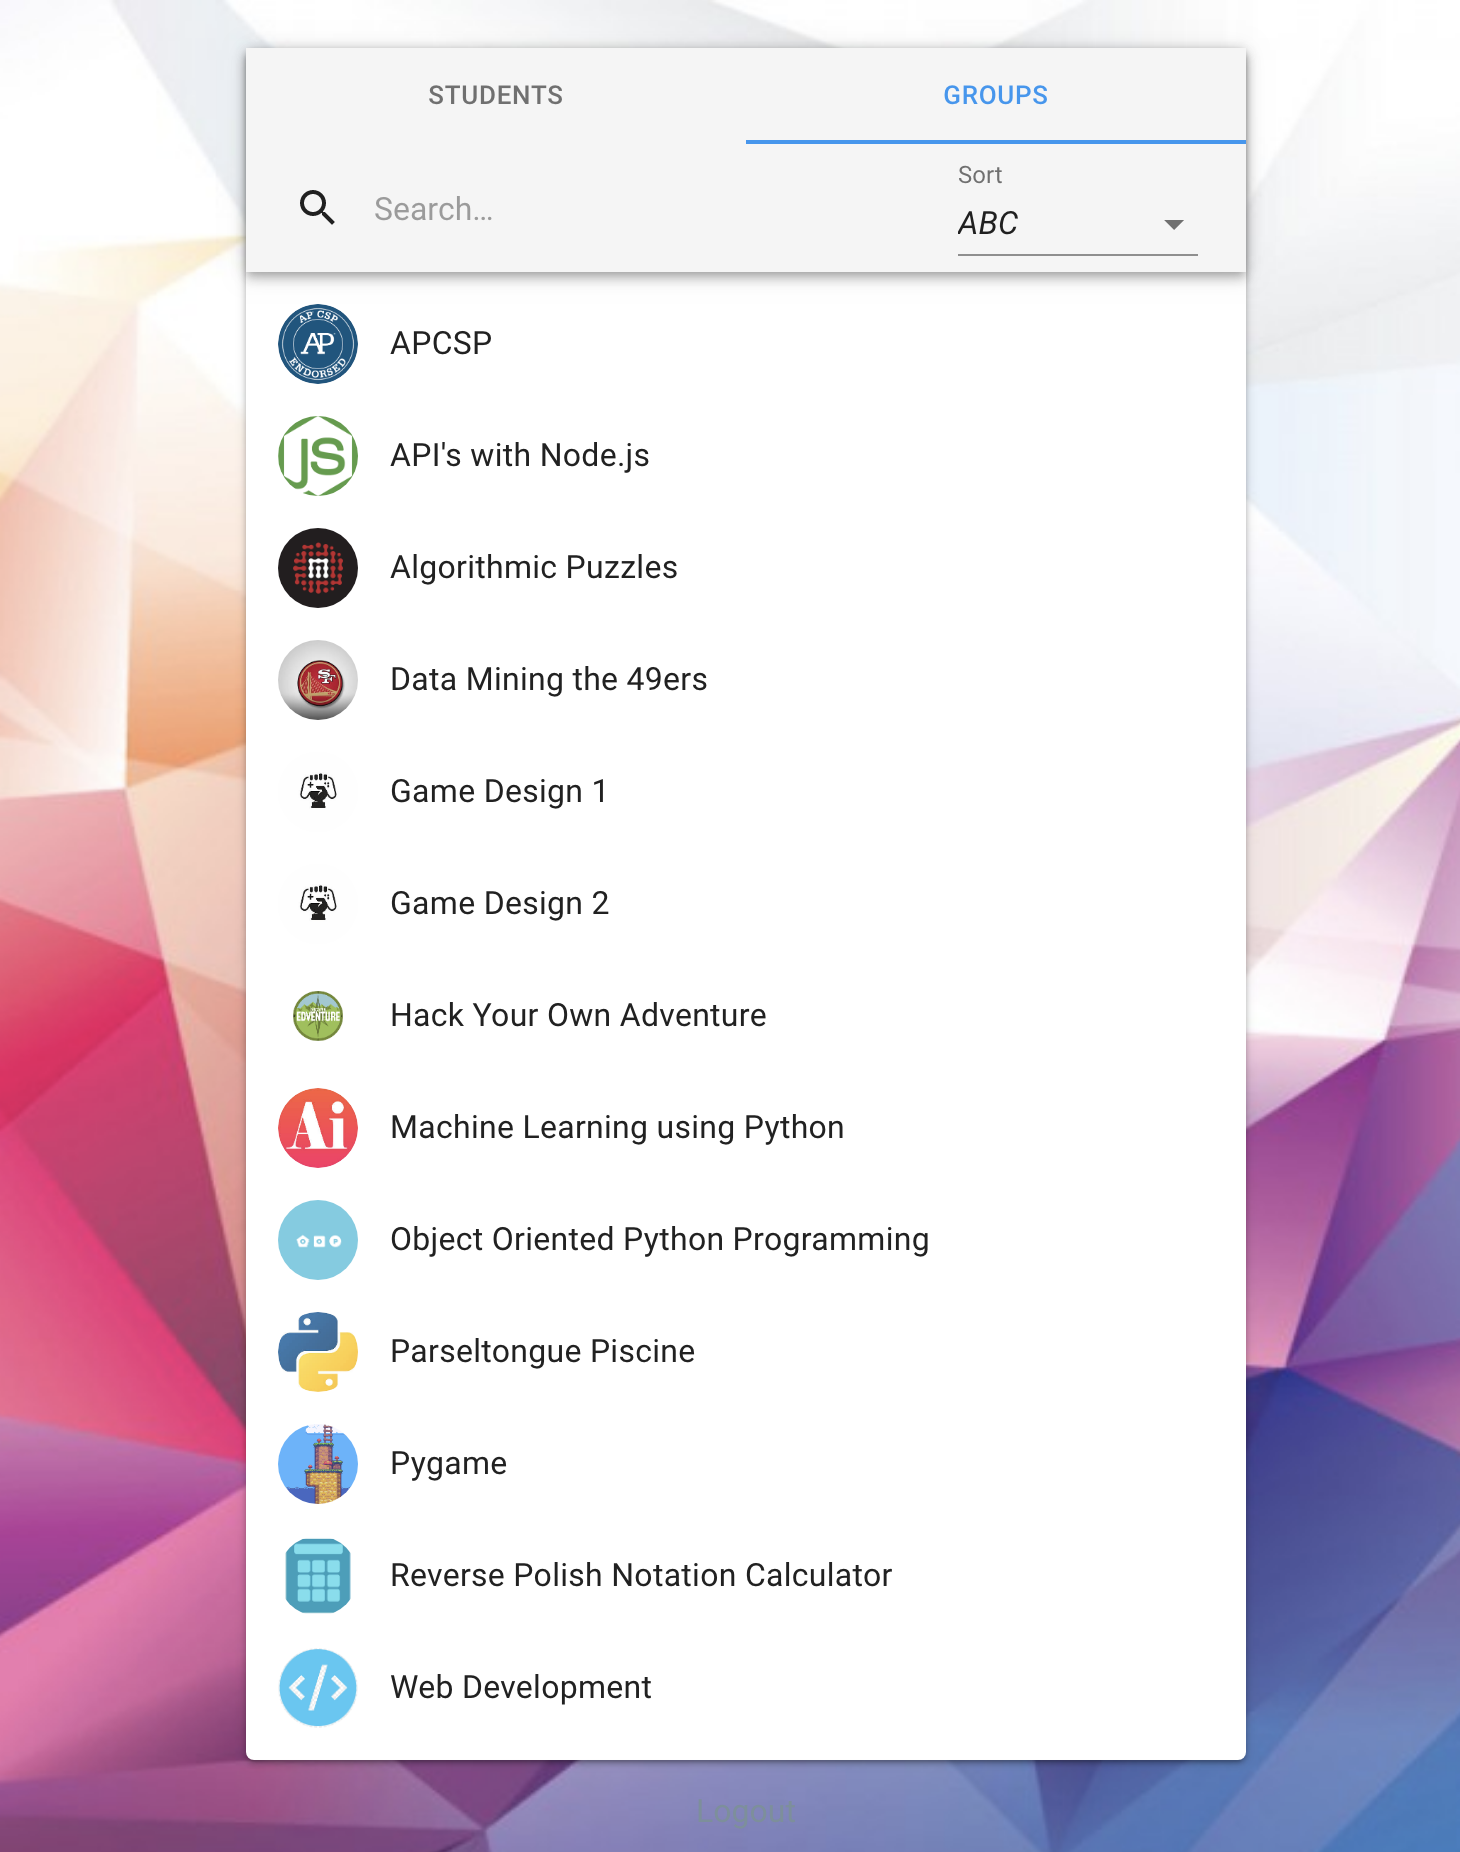
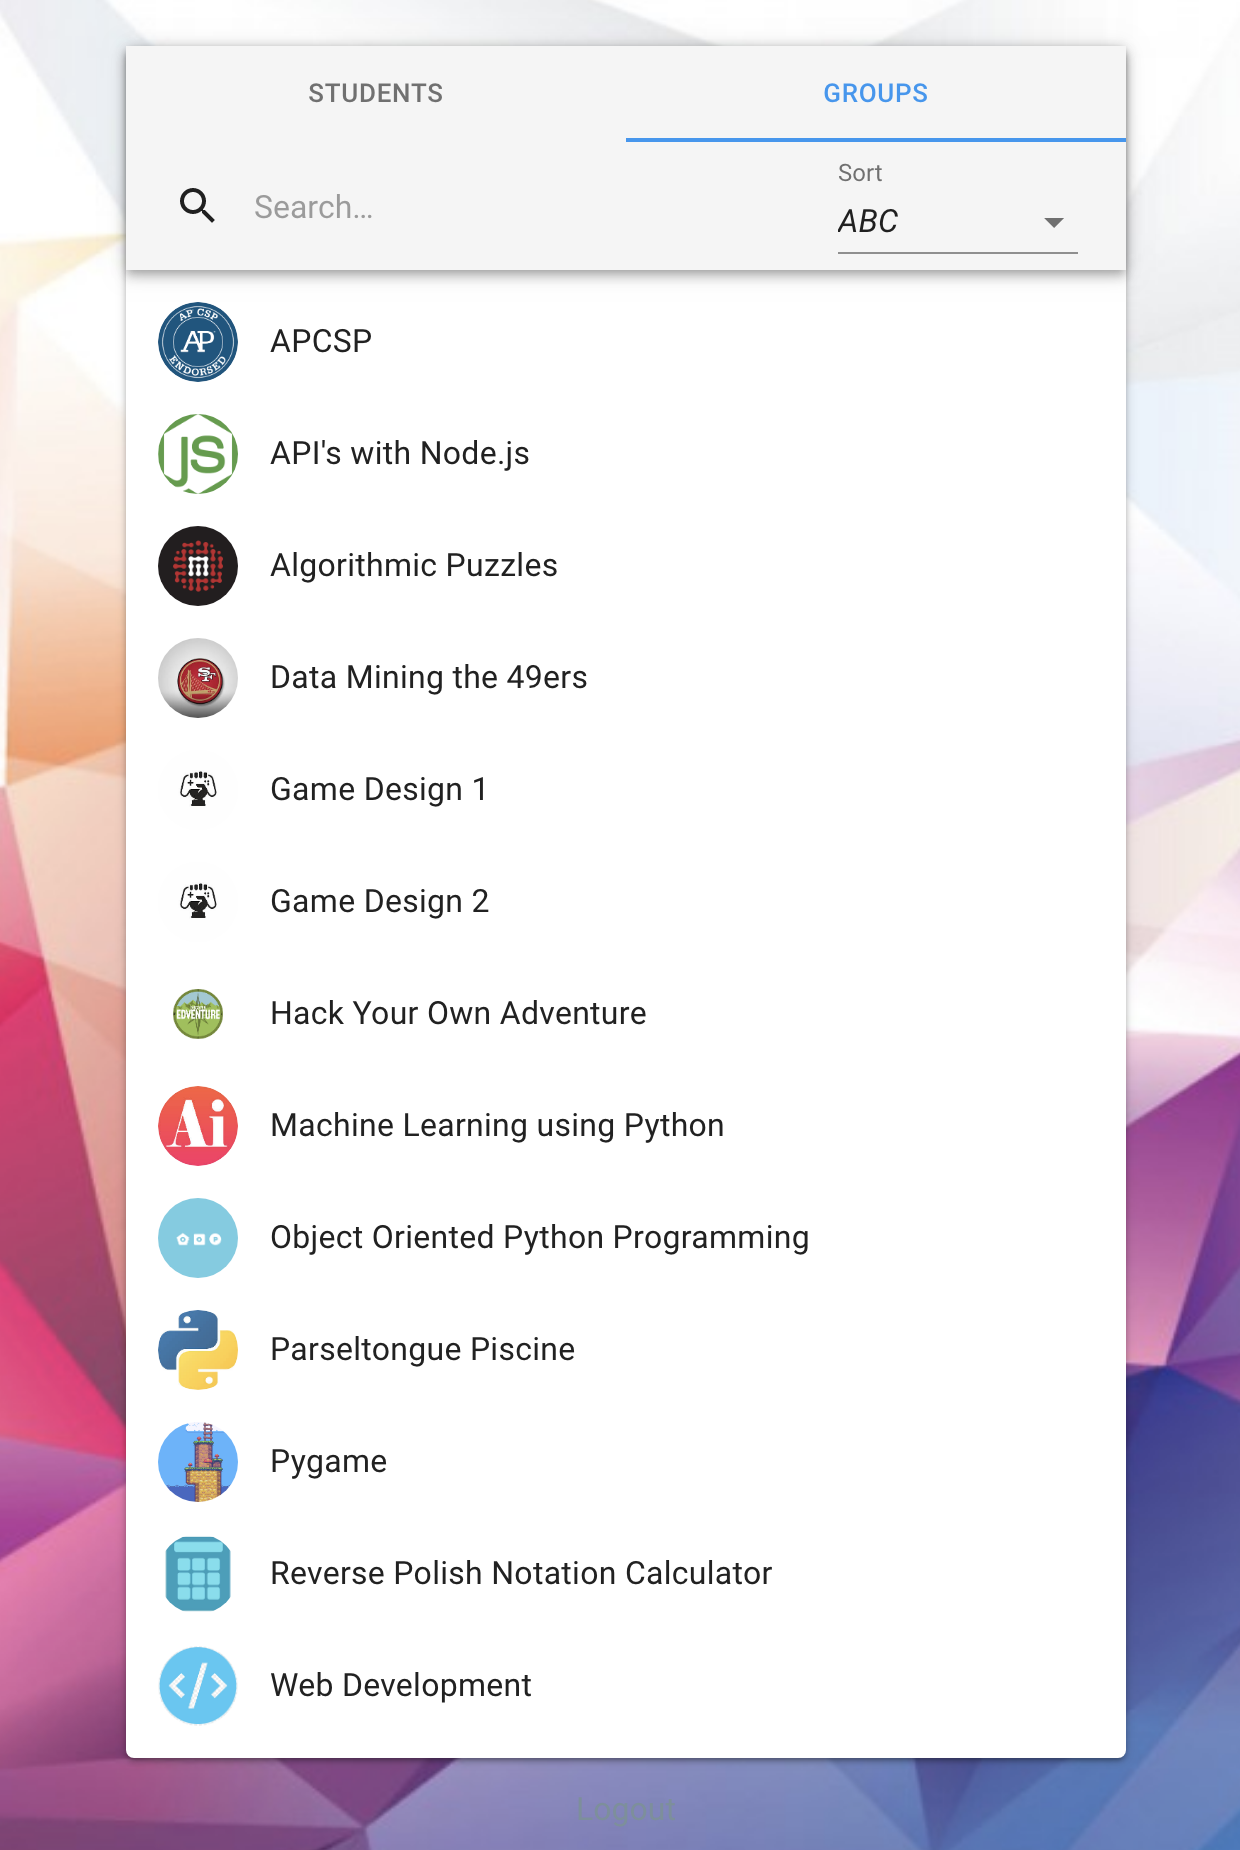
Update images & USER_INSTRUCTIONS styles

diff --git a/.github/USER_INSTRUCTIONS.md b/.github/USER_INSTRUCTIONS.md
@@ -6,8 +6,11 @@ These instructions will guide you through basic setup and use of the Hack High S
 
 1. Go to [https://hackhighschool.herokuapp.com/register](https://hackhighschool.herokuapp.com/register)
 
-2. Fill out the basic form  
-   ![Registration Form Screenshot](/.github/assets/RegistrationScreenShot.png)
+2. Fill out the basic form
+      <!-- ![Registration Form Screenshot](/.github/assets/RegistrationScreenShot.png) -->
+   <p align="center">
+      <img alt="Registration Form Screenshot" src="./assets/RegistrationScreenShot.png" width="700" />
+   </p>
 
 ## Basic Use
 
@@ -18,30 +21,57 @@ These instructions will guide you through basic setup and use of the Hack High S
 
 ### Views
 
-- **Full Student List:** This is part of the site's landing page. This section allows you to easily view, search, and sort all students. Mentors are able to update daily goals and progress, as well as set a student's group. Administrators are also able to update a student's checkin status.  
-  ![Student List Screenshot](/.github/assets/StudentListScreenShot.png)
+- **Full Student List:** This is part of the site's landing page. This section allows you to easily view, search, and sort all students. Mentors are able to update daily goals and progress, as well as set a student's group. Administrators are also able to update a student's checkin status.
 
-- **Full Group List:** This is the second on the site's landig page. This section allows you to easily view, search, and sort all groups.  
-   ![Group List Screenshot](/.github/assets/GroupListScreenShot.png)
+  <p align="center">
+  	<img alt="Student List Screenshot" src="./assets/StudentListScreenShot.png" width="700" />
+  </p>
 
-- **Student Profile:** This page is accessed by clicking on a student's list item. It allows you to easily see the student's _Current Group_, _Current Project_, _Level_, _Attendance History_, _Projects_, _Progress Reports_, & _Badges(tbd)_.  
-   ![Student Profile Screenshot](/.github/assets/StudentProfileScreenShot.png)
+- **Full Group List:** This is the second on the site's landig page. This section allows you to easily view, search, and sort all groups.
 
-- **Group Profile:** This page is accessed by clicking on a group's list item. It allows you to see the group's _Current Mentor(s)_, _Current Students_, & _Current Projects_.  
-  ![Group Profile Screenshot](/.github/assets/GroupProfileScreenShot.png)
+  <p align="center">
+  	<img alt="Group List Screenshot" src="./assets/GroupListScreenShot.png" width="700" />
+  </p>
+
+- **Student Profile:** This page is accessed by clicking on a student's list item. It allows you to easily see the student's _Current Group_, _Current Project_, _Level_, _Attendance History_, _Projects_, _Progress Reports_, & _Badges(tbd)_.
+
+  <p align="center">
+  	<img alt="Student Profile Screenshot" src="./assets/StudentProfileScreenShot.png" width="700" />
+  </p>
+
+- **Group Profile:** This page is accessed by clicking on a group's list item. It allows you to see the group's _Current Mentor(s)_, _Current Students_, & _Current Projects_.
+
+  <p align="center">
+  	<img alt="Group Profile Screenshot" src="./assets/GroupProfileScreenShot.png" width="700" />
+  </p>
 
 ### Actions
 
-- **Add Goal:** Click on the `Update Button` and select _Add Goal_ to track a student's daily goal.  
-  ![Update Button Screenshot](/.github/assets/UpdateButtonScreenShot.png)
-  ![Add Goal Screenshot](/.github/assets/AddGoalScreenShot.png)
+- **Add Goal:** Click on the `Update Button` and select _Add Goal_ to track a student's daily goal.
 
-- **Add Progress:** Click on the `Update Button` and select _Add Progress_ to complete complete a student's daily progress report.  
-  ![Add Progress Screenshot](/.github/assets/AddProgressScreenShot.png)
+  <p align="center">
+  	<img alt="Update Button Screenshot" src="./assets/UpdateButtonScreenShot.png" width="700" />
+  </p>
+  <p align="center">
+  	<img alt="Add Goal Screenshot" src="./assets/AddGoalScreenShot.png" width="700" />
+  </p>
 
-- **Set Group:** Click on the `Update Button` and select _Set Group_ to update a student's group.  
-  ![Set Group Screenshot](/.github/assets/SetGroupScreenShot.png)
-  ![Set Group List Screenshot](/.github/assets/SetGroupListScreenShot.png)
+- **Add Progress:** Click on the `Update Button` and select _Add Progress_ to complete complete a student's daily progress report.
 
-- **Check in/out:** _Administrators Only_ Simply click the `Check In/Out Button` to toggle a student's check in status. Student's can only be checked in and out **once per day**.  
-  ![Check in/out Screenshot](/.github/assets/CheckInOutBtnScreenShot.png)
+  <p align="center">
+  	<img alt="Add Progress Screenshot" src="./assets/AddProgressScreenShot.png" width="700" />
+  </p>
+
+- **Set Group:** Click on the `Update Button` and select _Set Group_ to update a student's group.
+
+  <p align="center">
+  	<img alt="Set Group Screenshot" src="./assets/SetGroupScreenShot.png" width="700" />
+  </p>
+  <p align="center">
+  	<img alt="Set Group List Screenshot" src="./assets/SetGroupListScreenShot.png" width="700" />
+  </p>
+
+- **Check in/out:** _Administrators Only_ Simply click the `Check In/Out Button` to toggle a student's check in status. Student's can only be checked in and out **once per day**.
+  <p align="center">
+  	<img alt="Check in/out Screenshot" src="./assets/CheckInOutBtnScreenShot.png" width="700" />
+  </p>
